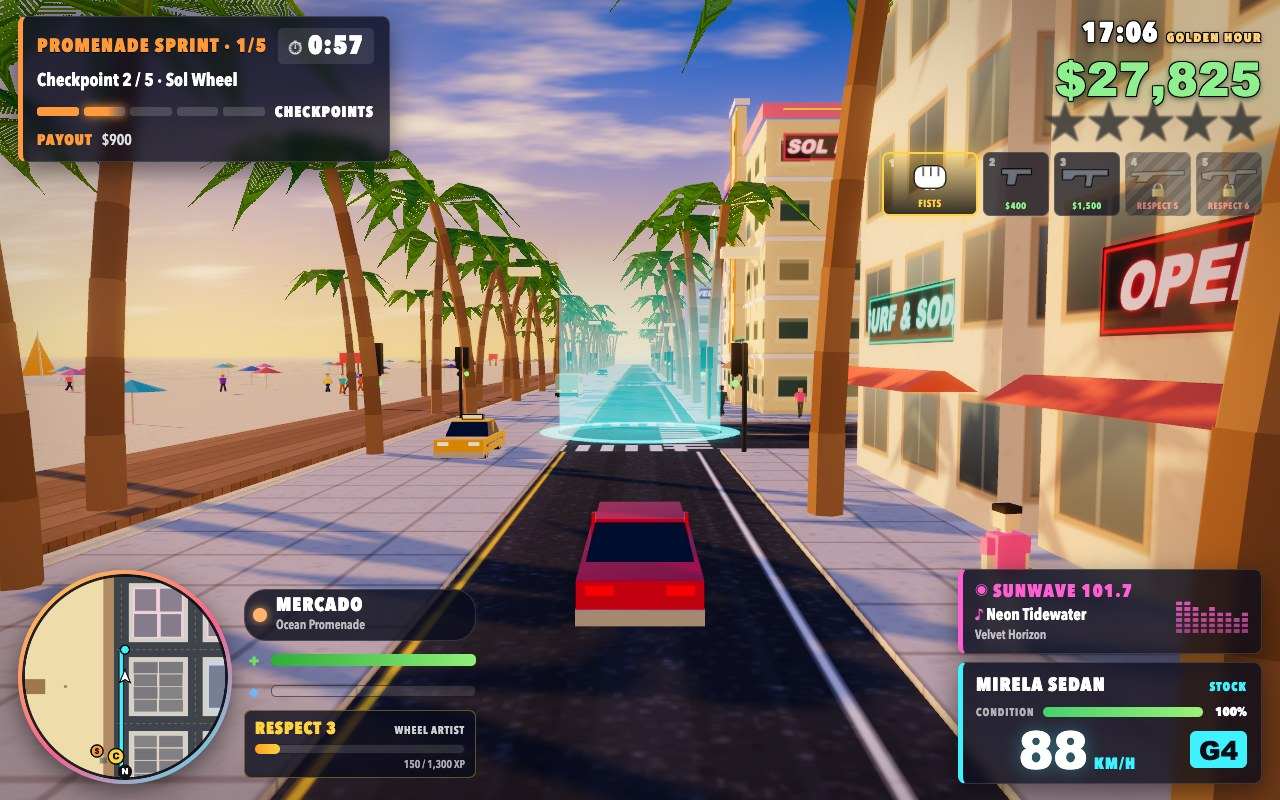
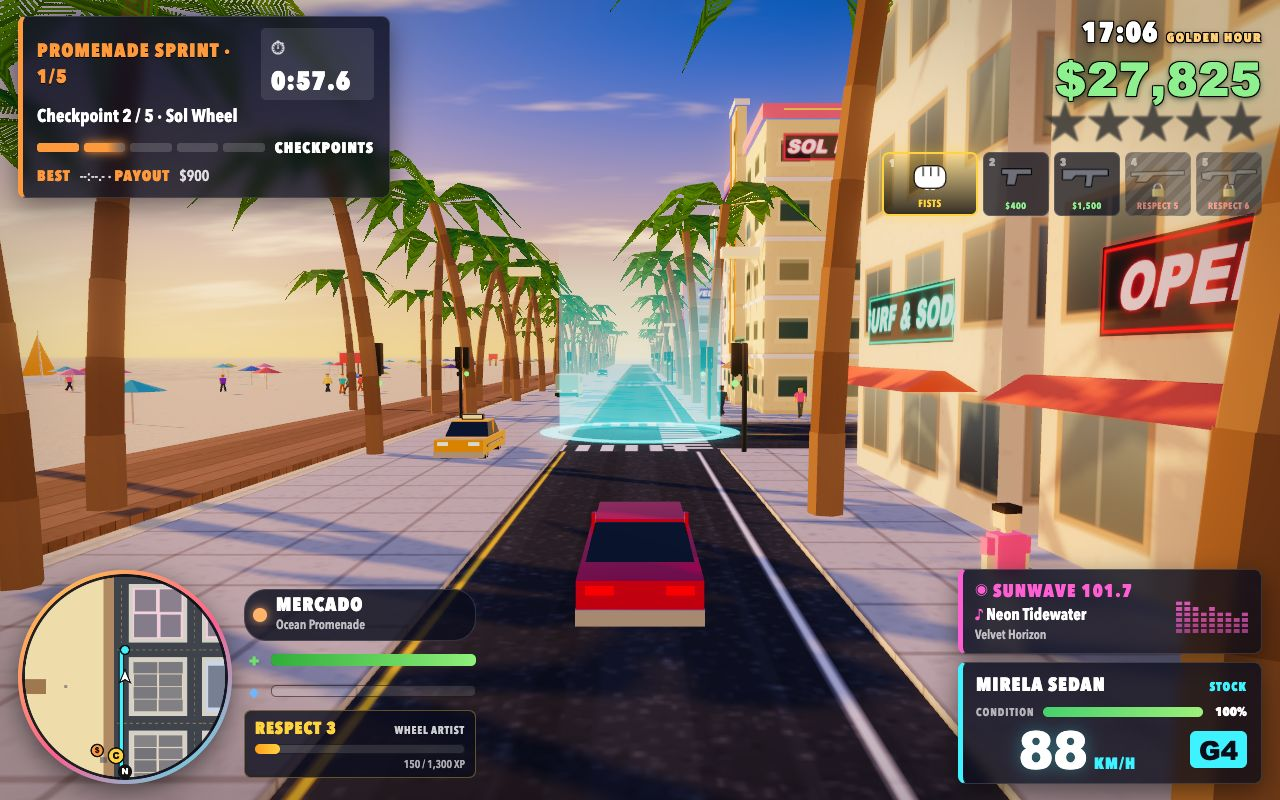
Improve Promenade Sprint replayability
Persist the player's fastest completed sprint through the existing stats save path, present live and finish times consistently, and retain prior records after slower or failed runs. Refresh the four native gameplay captures and widen the chase shot slightly so a complete cruiser reads alongside the Vantor.

diff --git a/game/src/shots/selfTest.js b/game/src/shots/selfTest.js
@@ -6,6 +6,8 @@
 // so a headless browser can check the whole game in one load.
 import { STEP } from '../config.js';
 import { giveWeapon } from '../combat/weapons.js';
+import { deleteSave, loadGame, saveGame } from '../core/save.js';
+import { hydrateState } from '../gameplay/session.js';
 import { CHAPTERS } from '../missions/chapters.js';
 import { isOnBlock, isWalkable, LANDMARKS } from '../world/cityLayout.js';
 
@@ -237,6 +239,50 @@ export function runSelfTest(game, { simulate, input, session, interactions }, re
     p.exitVehicle(true);
     run(0.1);
     if (game.side.active || game.gps.state.target) throw new Error('vehicle exit did not clear the race and GPS');
+  });
+  step('street race personal best and aborted-run persistence', () => {
+    game.state.stats.bestStreetRaceTime = null;
+    const race = game.side.race;
+    const car = game.vehicles.spawn('vantor', race.start.x, race.start.z, race.start.heading);
+    p.enterVehicle(car);
+    const completeIn = (seconds) => {
+      car.x = race.start.x; car.z = race.start.z; car.vx = car.vz = 0;
+      run(0.1, [], ['KeyE']);
+      if (game.side.active?.kind !== 'race') throw new Error('focused sprint did not start');
+      for (let i = 0; i < race.checkpoints.length; i += 1) {
+        const point = race.checkpoints[i];
+        if (i === race.checkpoints.length - 1) game.side.active.time = race.time - seconds + STEP;
+        car.x = point.x; car.z = point.z; car.vx = car.vz = 0;
+        run(0.1);
+      }
+    };
+
+    const cash = game.state.cash;
+    completeIn(20);
+    if (Math.abs(game.state.stats.bestStreetRaceTime - 20) > 0.001) throw new Error(`first best was ${game.state.stats.bestStreetRaceTime}`);
+    if (!document.getElementById('hud-big-sub').textContent.includes('0:20.0 · PERSONAL BEST')) throw new Error('first finish did not show time and PB status');
+    completeIn(18.5);
+    if (Math.abs(game.state.stats.bestStreetRaceTime - 18.5) > 0.001) throw new Error(`faster best was ${game.state.stats.bestStreetRaceTime}`);
+    completeIn(24);
+    if (Math.abs(game.state.stats.bestStreetRaceTime - 18.5) > 0.001) throw new Error('slower finish replaced the best');
+    if (!document.getElementById('hud-big-sub').textContent.includes('0:24.0 · BEST 0:18.5')) throw new Error('slower finish did not show result and saved best');
+    if (game.state.cash !== cash + race.reward * 3) throw new Error('focused finishes changed the $900 payout');
+
+    car.x = race.start.x; car.z = race.start.z;
+    run(0.1, [], ['KeyE']);
+    p.exitVehicle(true);
+    run(0.1);
+    if (game.side.active || Math.abs(game.state.stats.bestStreetRaceTime - 18.5) > 0.001) throw new Error('aborted run changed the saved best');
+  });
+  step('street race best save compatibility', () => {
+    const oldSave = hydrateState({ cash: 350, storyProgress: 0, stats: { streetRaces: 2 } });
+    if (oldSave.stats.bestStreetRaceTime !== null || oldSave.stats.streetRaces !== 2) throw new Error('pre-best save did not hydrate compatibly');
+    const currentSave = hydrateState({ cash: 350, storyProgress: 0, stats: { streetRaces: 3, bestStreetRaceTime: 18.5 } });
+    if (currentSave.stats.bestStreetRaceTime !== 18.5) throw new Error('saved sprint best did not hydrate');
+    saveGame({ cash: 350, storyProgress: 0, stats: currentSave.stats });
+    const reloaded = hydrateState(loadGame());
+    deleteSave();
+    if (reloaded.stats.bestStreetRaceTime !== 18.5) throw new Error('sprint best did not persist through normal save storage');
   });
   step('respect ranks', () => {
     game.state.respect = 0;

diff --git a/game/src/ui/missionCard.js b/game/src/ui/missionCard.js
@@ -1,6 +1,7 @@
 // The HUD mission card, top left: "CH 6 · GOLD COAST GETAWAY", the objective sentence, the
 // countdown, the target's health (a boss, a van), STAGE 3/4 progress segments and the NEXT
 // step. Between chapters it shows the running side job, or where the next chapter starts.
+import { formatRaceTime } from '../missions/streetRace.js';
 
 const $ = (id) => document.getElementById(id);
 const esc = (t) => t.replace(/[&<>]/g, (c) => ({ '&': '&amp;', '<': '&lt;', '>': '&gt;' }[c]));
@@ -45,7 +46,10 @@ export function createMissionCard(game) {
       const current = side.kind === 'taxi' ? (side.step === 'pickup' ? 0 : 1) : side.kind === 'race' ? side.checkpoint : side.drops ?? 0;
       segments(count, current);
       setText(el.stageLabel, side.kind === 'taxi' ? (side.step === 'pickup' ? 'PICK UP' : 'DROP OFF') : side.kind === 'race' ? 'CHECKPOINTS' : 'DELIVERIES');
-      setHtml(el.next, side.kind === 'race' ? `<b>PAYOUT</b> $${game.side.race.reward.toLocaleString('en-US')}` : `<b>EARNED</b> $${(side.earned ?? 0).toLocaleString('en-US')}`);
+      if (side.kind === 'race') {
+        const best = game.state.stats.bestStreetRaceTime;
+        setHtml(el.next, `<b>BEST</b> ${best == null ? '--:--.-' : formatRaceTime(best)} · <b>PAYOUT</b> $${game.side.race.reward.toLocaleString('en-US')}`);
+      } else setHtml(el.next, `<b>EARNED</b> $${(side.earned ?? 0).toLocaleString('en-US')}`);
     } else {
       const def = game.missions.nextStory();
       if (!def) { el.card.classList.add('hidden'); return; }
@@ -58,8 +62,11 @@ export function createMissionCard(game) {
     }
     el.timer.classList.toggle('hidden', state.timer == null);
     if (state.timer != null) {
-      const m = Math.floor(state.timer / 60), s = Math.floor(state.timer % 60);
-      setText(el.timer, `${m}:${String(s).padStart(2, '0')}`);
+      if (side?.kind === 'race') setText(el.timer, formatRaceTime(state.timer));
+      else {
+        const m = Math.floor(state.timer / 60), s = Math.floor(state.timer % 60);
+        setText(el.timer, `${m}:${String(s).padStart(2, '0')}`);
+      }
       el.timer.classList.toggle('low', state.timer < 10);
     }
   }

diff --git a/game/src/gameplay/session.js b/game/src/gameplay/session.js
@@ -13,7 +13,20 @@ export function freshState() {
     medallions: [],
     respect: 0,
     personalCar: null,
-    stats: { missionsPassed: 0, kills: 0, carsStolen: 0, wasted: 0, busted: 0, distance: 0, taxiFares: 0, tacoRuns: 0, streetRaces: 0 },
+    stats: { missionsPassed: 0, kills: 0, carsStolen: 0, wasted: 0, busted: 0, distance: 0, taxiFares: 0, tacoRuns: 0, streetRaces: 0, bestStreetRaceTime: null },
+  };
+}
+
+export function hydrateState(data) {
+  return {
+    ...freshState(),
+    cash: data.cash,
+    storyProgress: data.storyProgress,
+    choices: data.choices ?? {},
+    medallions: data.medallions ?? [],
+    respect: data.respect ?? 0,
+    personalCar: data.personalCar ?? null,
+    stats: { ...freshState().stats, ...(data.stats ?? {}) },
   };
 }
 
@@ -76,7 +89,7 @@ export function createSession(game) {
     const data = loadGame();
     if (!data) { session.newGame(); return; }
     resetWorldState();
-    game.state = { ...freshState(), cash: data.cash, storyProgress: data.storyProgress, choices: data.choices ?? {}, medallions: data.medallions ?? [], respect: data.respect ?? 0, personalCar: data.personalCar ?? null, stats: { ...freshState().stats, ...(data.stats ?? {}) } };
+    game.state = hydrateState(data);
     const inv = createInventory();
     for (const [id, ammo] of Object.entries(data.weapons ?? {})) if (WEAPONS[id]) giveWeapon(inv, id, ammo);
     game.player.inventory = inv;

diff --git a/game/src/missions/sideJobs.js b/game/src/missions/sideJobs.js
@@ -7,7 +7,7 @@
 import { rng } from '../core/random.js';
 import { createMarker } from '../gameplay/markers.js';
 import { LANDMARKS } from '../world/cityLayout.js';
-import { STREET_RACE } from './streetRace.js';
+import { formatRaceTime, STREET_RACE } from './streetRace.js';
 
 export function createSideJobs(game) {
   const net = game.world.network;
@@ -101,11 +101,16 @@ export function createSideJobs(game) {
   function finishRace() {
     if (!job || job.kind !== 'race') return;
     const reward = STREET_RACE.reward;
+    const elapsed = STREET_RACE.time - job.time;
+    const previousBest = game.state.stats.bestStreetRaceTime;
+    const personalBest = previousBest == null || elapsed < previousBest;
+    if (personalBest) game.state.stats.bestStreetRaceTime = elapsed;
     cancel(false);
     game.state.stats.streetRaces = (game.state.stats.streetRaces ?? 0) + 1;
     game.addCash(reward);
     game.events.emit('sideJobPaid', { kind: 'race', amount: reward });
-    game.hud.bigMessage('SPRINT COMPLETE', `${STREET_RACE.title} · $${reward.toLocaleString()}`, STREET_RACE.color);
+    const result = personalBest ? `${formatRaceTime(elapsed)} · PERSONAL BEST` : `${formatRaceTime(elapsed)} · BEST ${formatRaceTime(previousBest)}`;
+    game.hud.bigMessage('SPRINT COMPLETE', `${result} · $${reward.toLocaleString()}`, STREET_RACE.color);
     game.audio?.sfx.missionPassed();
     game.autosave();
   }

diff --git a/game/src/ui/menus.js b/game/src/ui/menus.js
@@ -2,6 +2,7 @@
 // the story intro, the pause menu with its city map, brief, settings and controls tabs, the
 // Bayside Arms shop, and the ending card.
 import { saveSettings } from '../core/save.js';
+import { formatRaceTime } from '../missions/streetRace.js';
 import { CAST, STORY_INTRO } from '../missions/cast.js';
 import { CHAPTERS } from '../missions/chapters.js';
 import { MEDALLIONS } from '../missions/collectibles.js';
@@ -115,6 +116,7 @@ export function createMenus(game, mapCanvas, handlers) {
         <div>Story chapters: ${s.storyProgress} / ${CHAPTERS.length}</div>
         <div>Sun Medallions: ${s.medallions.length} / ${MEDALLIONS.length}</div>
         <div>Taxi fares: ${st.taxiFares} · Taco runs: ${st.tacoRuns} · Street sprints: ${st.streetRaces ?? 0}</div>
+        <div>Promenade Sprint best: ${st.bestStreetRaceTime == null ? '--:--.-' : formatRaceTime(st.bestStreetRaceTime)}</div>
         <div>Cars stolen: ${st.carsStolen} · Takedowns: ${st.kills}</div>
         <div>Times wasted: ${st.wasted} · Busted: ${st.busted}</div>
         <div>Distance driven: ${(st.distance / 1000).toFixed(1)} km</div></section>

diff --git a/game/src/shots/shotScenes.js b/game/src/shots/shotScenes.js
@@ -114,7 +114,7 @@ const SCENES = {
     units[0].ramming = true;
     // A close chase camera that keeps Dani's car dominant while the police pack and route read clearly.
     const lead = game.player.vehicle ?? car;
-    game.camera.setPose(lead.x - 14, 4.1, lead.z - 4, lead.x + 20, 2, lead.z + 1.4, 57);
+    game.camera.setPose(lead.x - 16, 4.4, lead.z - 4, lead.x + 20, 2, lead.z + 1.4, 59);
     clearLens(game);
   },
 

diff --git a/game/src/missions/streetRace.js b/game/src/missions/streetRace.js
@@ -16,3 +16,10 @@ export const STREET_RACE = {
     { x: lineCoord(5), z: lineCoord(8) - 3.5, label: 'Lumen finish' },
   ],
 };
+
+export function formatRaceTime(seconds) {
+  const tenths = Math.max(0, Math.round(seconds * 10));
+  const minutes = Math.floor(tenths / 600);
+  const remainder = tenths % 600;
+  return `${minutes}:${String(Math.floor(remainder / 10)).padStart(2, '0')}.${remainder % 10}`;
+}
